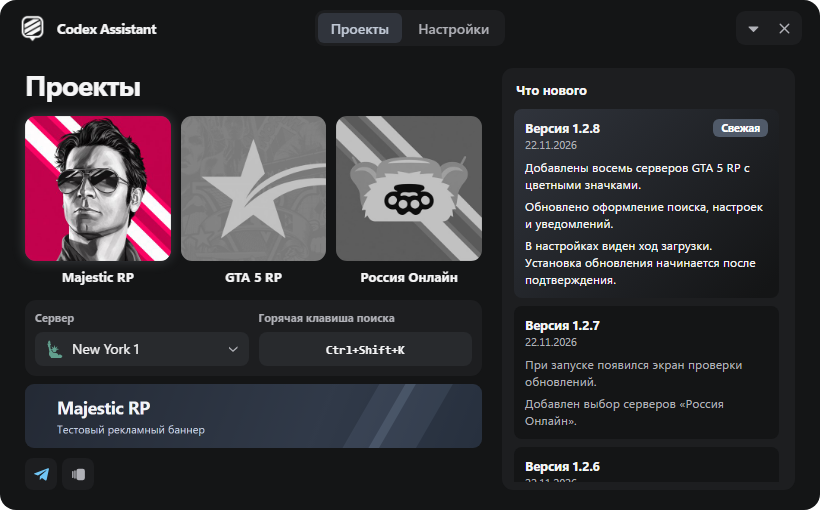
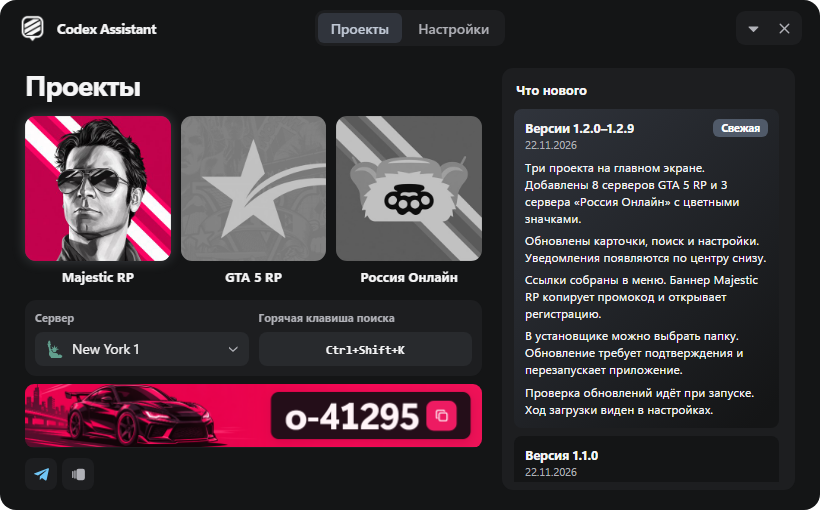
Refresh Codex Assistant screenshots in profile README

diff --git a/README.md b/README.md
@@ -57,3 +57,11 @@
 Памятка для Majestic RP с поиском по законам 19 серверов и правилам проекта. [Исходники и запуск](./codex-assistant) · [Сборки для Windows](https://github.com/dev-onewizard/dev-onewizard/releases)
 
 ![Главный экран Codex Assistant](./docs/codex-assistant-main-screen.png)
+
+### Настройки
+
+![Настройки Codex Assistant](./docs/codex-assistant-settings.png)
+
+### Запуск и проверка обновлений
+
+![Экран запуска Codex Assistant](./docs/codex-assistant-startup.png)
